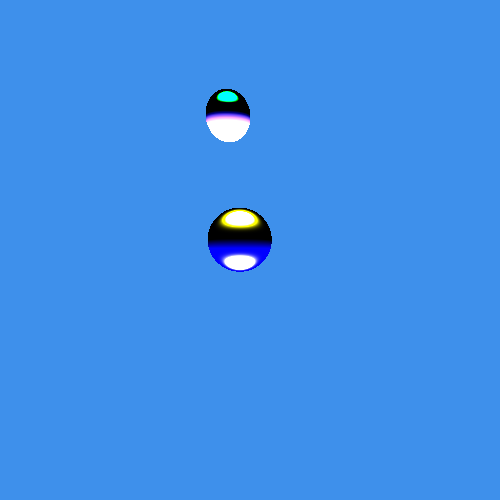
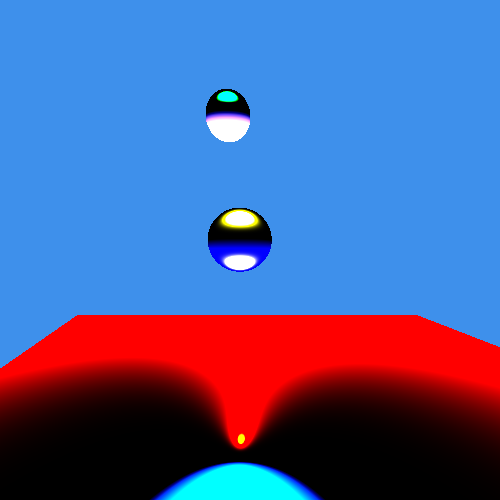
Update tracer image

diff --git a/renderer/src/main.rs b/renderer/src/main.rs
@@ -73,8 +73,8 @@ fn main() {
     };
 
     // let objects: [&dyn Shape; 1] = [&polygon];
-    // let objects: Vec<&dyn Shape>   = vec![&sphere_2, &sphere_1, &polygon];
-    let objects: Vec<&dyn Shape> = vec![&sphere_1, &sphere_2];
+    let objects: Vec<&dyn Shape>   = vec![&sphere_2, &sphere_1, &polygon];
+    // let objects: Vec<&dyn Shape> = vec![&sphere_1, &sphere_2];
     // let objects: Vec<&dyn Shape> = vec![&sphere_1];
     let light = Light::new(
         Vector3::new(0.0, 19.0, 20.0),
